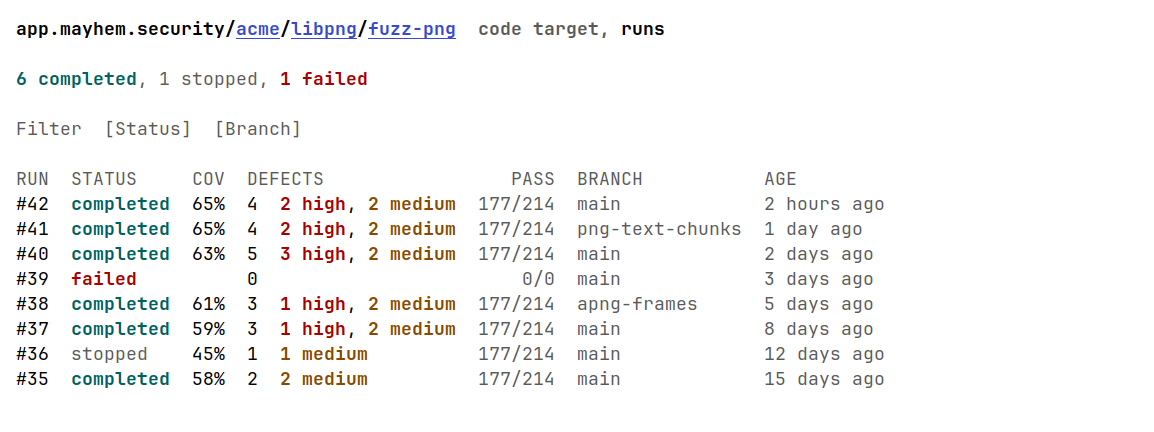
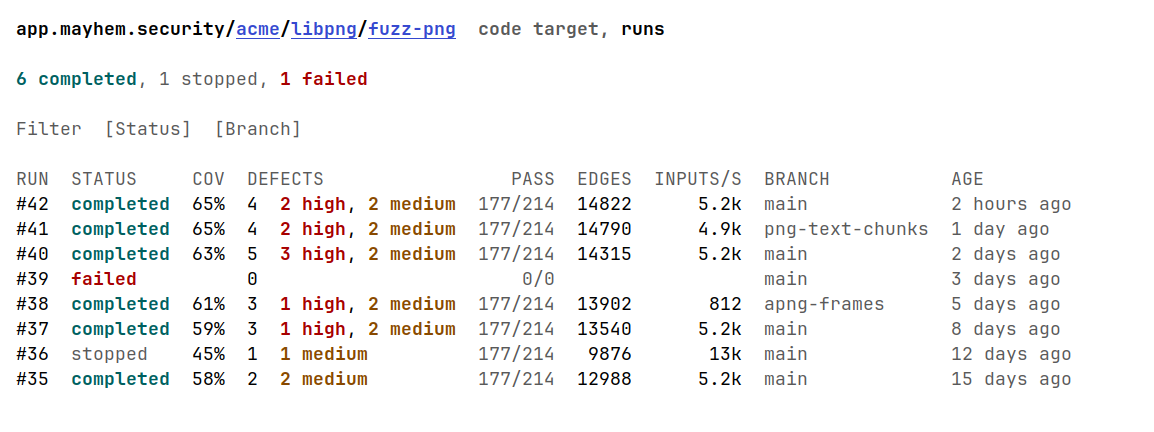
Show edges and inputs per second in run lists
A target's run lists now show each run's edges covered and inputs
tested per second, after PASS, as the run's page does, so how a
target's fuzzing goes can be compared across runs at a glance.  The
rate is cut short (`5.2k', `137k') by `mayhem--format-count', exact on
hover; the UI conventions now say to show large numbers so.

diff --git a/docs/user-interface-conventions.md b/docs/user-interface-conventions.md
@@ -153,6 +153,9 @@ users expect.
   `mayhem-defect-severity-face` for a defect.  Colour only the
   status word itself, never the whole row.
 - Timestamps: relative age (`3 days ago`), exact time in `help-echo`.
+- Large or fractional numbers in a table (`INPUTS/S`): short
+  (`5.2k`, `137k`, `1.4M`) with `mayhem--format-count`, exact in
+  `help-echo`.  Counts read as exact (defects, test cases) stay whole.
 - Table rows, notices and charts start at column 0; only a tree (the
   workspace's targets under their projects) indents.
 - A page keeps within `mayhem-page-width`: its window's width, at most
